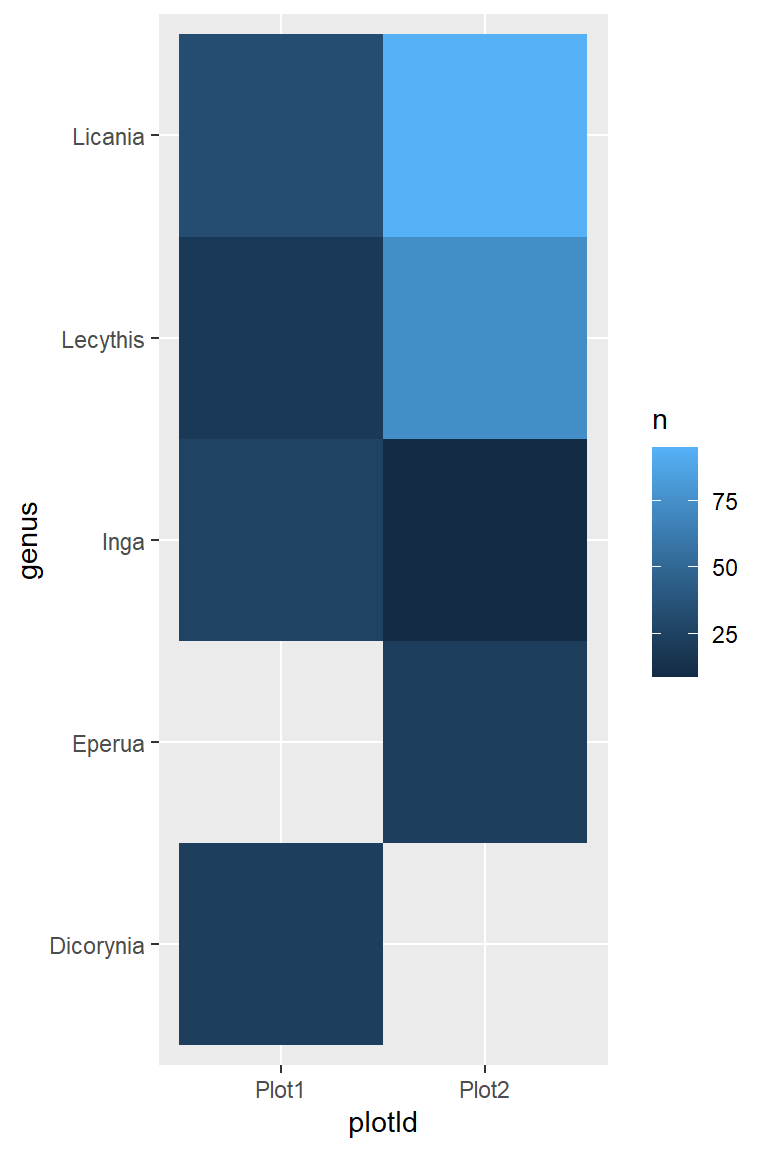
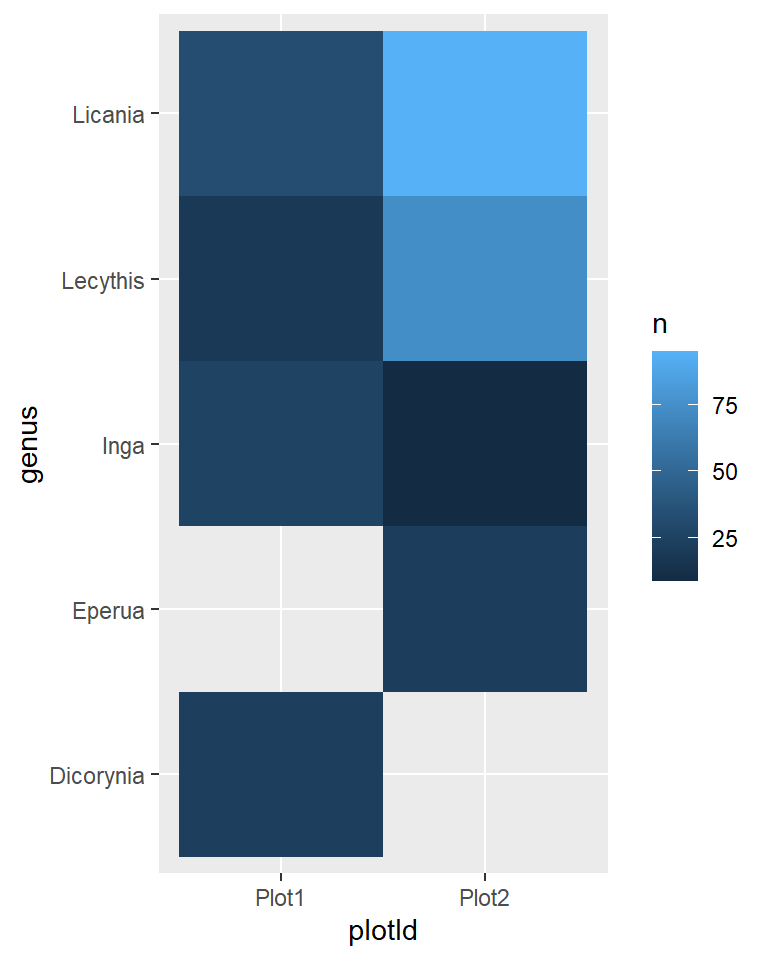
update material on ggplot

diff --git a/0_installing_enviro/install_enviro.html b/0_installing_enviro/install_enviro.html
@@ -10,7 +10,7 @@
   <meta name="generator" content="quarto-1.9.38">
 
   <meta name="author" content="Géraldine Derroire">
-  <meta name="dcterms.date" content="2026-07-17">
+  <meta name="dcterms.date" content="2026-07-23">
   <title>Set up the working environment</title>
   <meta name="apple-mobile-web-app-capable" content="yes">
   <meta name="apple-mobile-web-app-status-bar-style" content="black-translucent">
@@ -212,7 +212,7 @@ Géraldine Derroire
     </div>
 </div>
 
-  <p class="date">2026-07-17</p>
+  <p class="date">2026-07-23</p>
 </section>
 <section>
 <section id="section" class="title-slide slide level1 center">
@@ -390,7 +390,7 @@ Géraldine Derroire
 </section></section>
 <section id="install-the-needed-r-packages" class="title-slide slide level1 center">
 <h1>Install the needed R packages</h1>
-<p>Run the code on the following slides in the console:</p>
+<p>Run the code below in the console:</p>
 <div class="cell">
 <div class="code-copy-outer-scaffold"><div class="sourceCode cell-code" id="cb13"><pre class="sourceCode numberSource r number-lines code-with-copy"><code class="sourceCode r"><span id="cb13-1"><a href=""></a><span class="fu">install.packages</span>(<span class="st">"vegan"</span>,</span>
 <span id="cb13-2"><a href=""></a>                 <span class="st">"questionr"</span>,</span>
@@ -398,16 +398,17 @@ Géraldine Derroire
 <span id="cb13-4"><a href=""></a>                 <span class="st">"janitor"</span>,</span>
 <span id="cb13-5"><a href=""></a>                 <span class="st">"patchwork"</span>,</span>
 <span id="cb13-6"><a href=""></a>                 <span class="st">"plotly"</span>, </span>
-<span id="cb13-7"><a href=""></a>                 <span class="st">"multcompView"</span>,</span>
-<span id="cb13-8"><a href=""></a>                 <span class="st">"GGally"</span>,</span>
-<span id="cb13-9"><a href=""></a>                 <span class="st">"BIOMASS"</span>,</span>
-<span id="cb13-10"><a href=""></a>                 <span class="st">"MASS"</span>,</span>
-<span id="cb13-11"><a href=""></a>                 <span class="st">"ggeffects"</span>, </span>
-<span id="cb13-12"><a href=""></a>                 <span class="st">"gtsummary"</span>, </span>
-<span id="cb13-13"><a href=""></a>                 <span class="st">"ggstats"</span>, </span>
-<span id="cb13-14"><a href=""></a>                 <span class="st">"lindia"</span>, </span>
-<span id="cb13-15"><a href=""></a>                 <span class="st">"car"</span>, </span>
-<span id="cb13-16"><a href=""></a>                 <span class="st">"AICcmodavg"</span>)</span></code></pre></div><button title="Copy to Clipboard" class="code-copy-button"><i class="bi"></i></button></div>
+<span id="cb13-7"><a href=""></a>                 <span class="st">"ggspatial"</span>,</span>
+<span id="cb13-8"><a href=""></a>                 <span class="st">"multcompView"</span>,</span>
+<span id="cb13-9"><a href=""></a>                 <span class="st">"GGally"</span>,</span>
+<span id="cb13-10"><a href=""></a>                 <span class="st">"BIOMASS"</span>,</span>
+<span id="cb13-11"><a href=""></a>                 <span class="st">"MASS"</span>,</span>
+<span id="cb13-12"><a href=""></a>                 <span class="st">"ggeffects"</span>, </span>
+<span id="cb13-13"><a href=""></a>                 <span class="st">"gtsummary"</span>, </span>
+<span id="cb13-14"><a href=""></a>                 <span class="st">"ggstats"</span>, </span>
+<span id="cb13-15"><a href=""></a>                 <span class="st">"lindia"</span>, </span>
+<span id="cb13-16"><a href=""></a>                 <span class="st">"car"</span>, </span>
+<span id="cb13-17"><a href=""></a>                 <span class="st">"AICcmodavg"</span>)</span></code></pre></div><button title="Copy to Clipboard" class="code-copy-button"><i class="bi"></i></button></div>
 </div>
 </section>
 

diff --git a/index.html b/index.html
@@ -94,13 +94,7 @@ ul.task-list li input[type="checkbox"] {
 <li><p><a href="2_getting_started/getting_started.html">Getting started with R</a></p></li>
 <li><p><a href="3_manip_data/manip_data.html">Working with data</a></p></li>
 <li><p><a href="4_tidyverse/tidyverse.html">Introduction to the tidyverse</a></p></li>
-</ul>
-<!--
-
--   [Data visualisation with ggplot](99_archives/2025/5_graph/graph_ggplot.html)
-
--->
-<ul>
+<li><p><a href="5_graph/graph_ggplot.html">Data visualisation with ggplot</a></p></li>
 <li><p><a href="9_literate_programming/literate_programming.html">Literate programming with quarto</a></p></li>
 <li><p><a href="8_version_control/version_control.html">Introduction to Version Control with Git and GitHub</a></p></li>
 </ul>